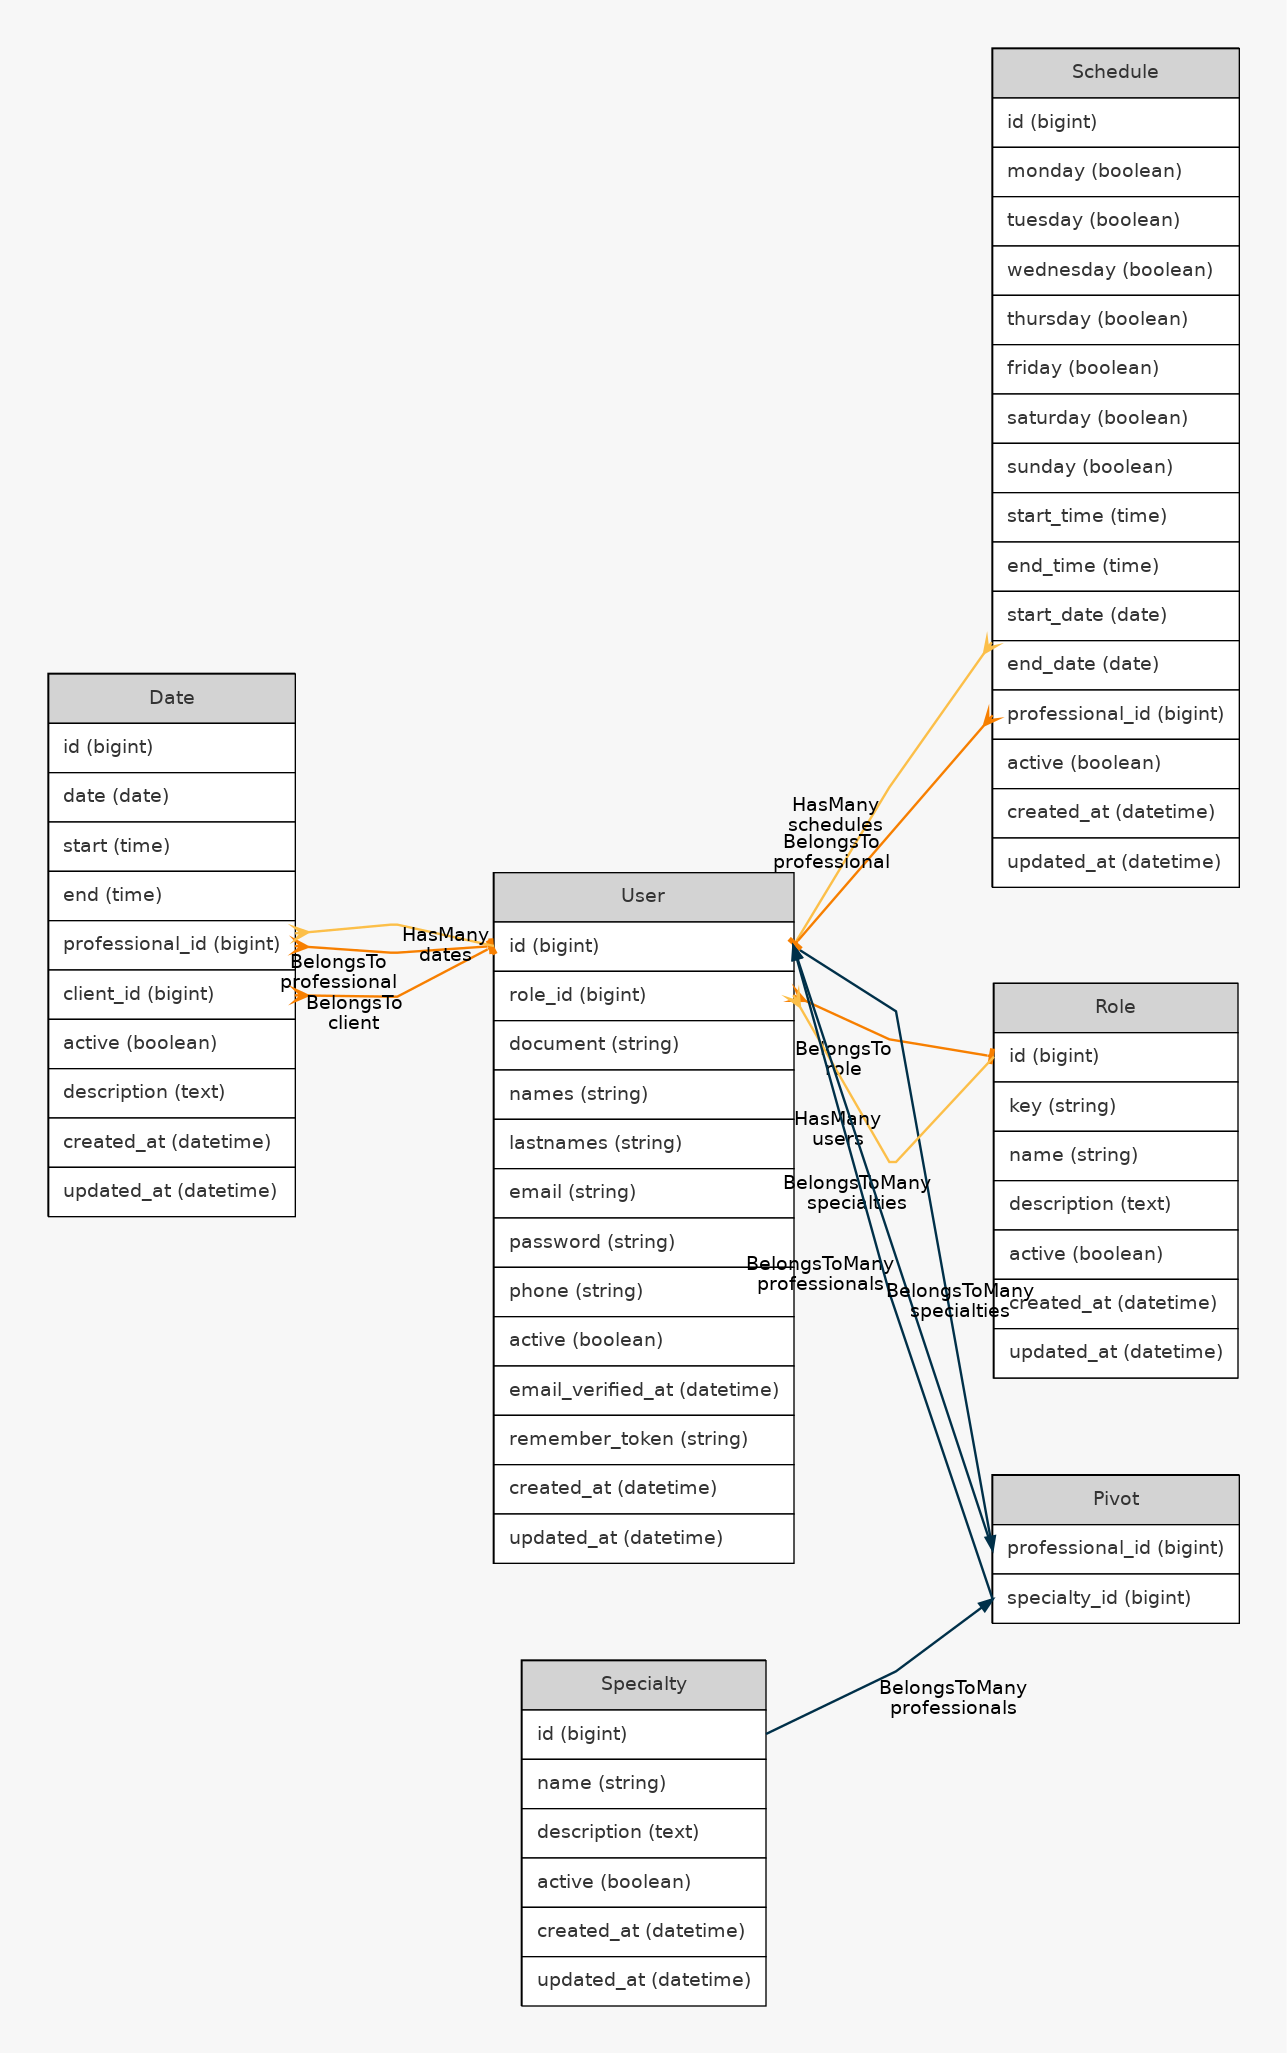
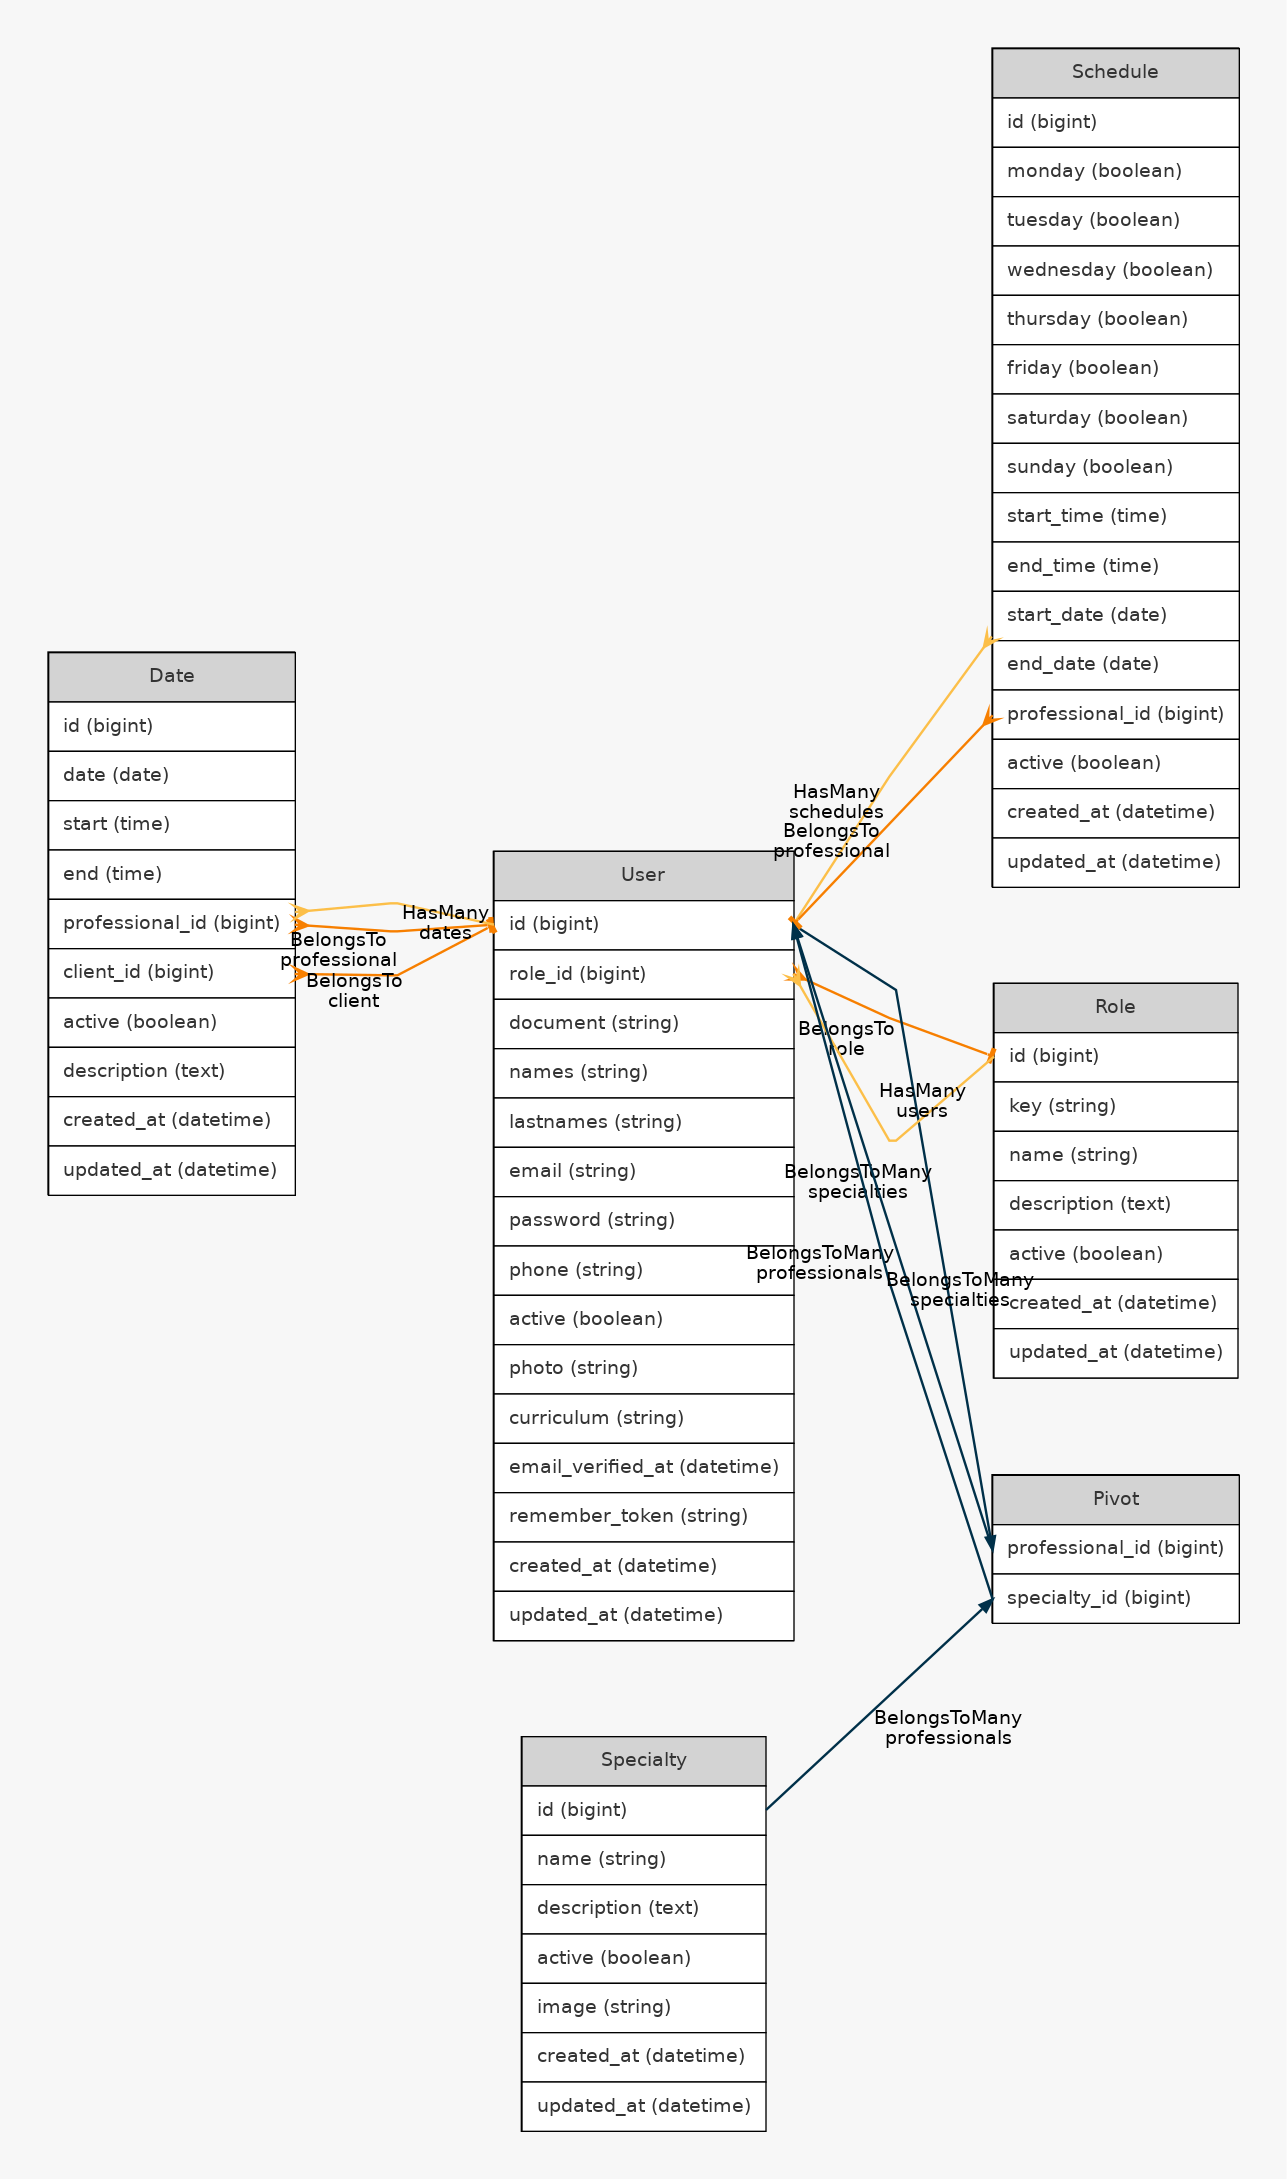
Actualización de migraciones y generación de seeders

Changed region(s): [[0.0311, 0.0, 0.9635, 0.9976]]

diff --git a/DateManager/database/migrations/2020_11_29_003839_create_schedules_table.php b/DateManager/database/migrations/2020_11_29_003839_create_schedules_table.php
@@ -15,18 +15,18 @@ class CreateSchedulesTable extends Migration
     {
         Schema::create('schedules', function (Blueprint $table) {
             $table->id();
-            $table->boolean('monday')->nullable(false);
-            $table->boolean('tuesday')->nullable(false);
-            $table->boolean('wednesday')->nullable(false);
-            $table->boolean('thursday')->nullable(false);
-            $table->boolean('friday')->nullable(false);
-            $table->boolean('saturday')->nullable(false);
-            $table->boolean('sunday')->nullable(false);
-            $table->time('start_time')->nullable(false);
-            $table->time('end_time')->nullable(false);
+            $table->boolean('monday');
+            $table->boolean('tuesday');
+            $table->boolean('wednesday');
+            $table->boolean('thursday');
+            $table->boolean('friday');
+            $table->boolean('saturday');
+            $table->boolean('sunday');
+            $table->time('start_time');
+            $table->time('end_time');
             $table->date('start_date');
             $table->date('end_date');
-            $table->foreignId('professional_id')->constrained('users')->nullable(false)
+            $table->foreignId('professional_id')->constrained('users')
                     ->onDelete('restrict')->onUpdate('cascade');
             $table->boolean('active')->default(true);
             $table->timestamps();

diff --git a/DateManager/database/migrations/2014_10_12_000000_create_users_table.php b/DateManager/database/migrations/2014_10_12_000000_create_users_table.php
@@ -15,15 +15,17 @@ class CreateUsersTable extends Migration
     {
         Schema::create('users', function (Blueprint $table) {
             $table->id();
-            $table->foreignId('role_id')->constrained()->nullable(false)
+            $table->foreignId('role_id')->constrained()
                     ->onDelete('restrict')->onUpdate('cascade');
-            $table->string('document')->unique()->nullable(false);
-            $table->string('names')->nullable(false);
-            $table->string('lastnames')->nullable(false);
-            $table->string('email')->unique()->nullable(false);
-            $table->string('password')->nullable(false);
+            $table->string('document')->unique();
+            $table->string('names');
+            $table->string('lastnames');
+            $table->string('email')->unique();
+            $table->string('password');
             $table->string('phone');
             $table->boolean('active')->default(true);
+            $table->string('photo')->nullable();
+            $table->string('curriculum')->nullable();
             $table->timestamp('email_verified_at')->nullable();
             $table->rememberToken();
             $table->timestamps();

diff --git a/DateManager/database/migrations/2020_11_29_001554_create_dates_table.php b/DateManager/database/migrations/2020_11_29_001554_create_dates_table.php
@@ -15,15 +15,15 @@ class CreateDatesTable extends Migration
     {
         Schema::create('dates', function (Blueprint $table) {
             $table->id();
-            $table->date('date')->nullable(false);
-            $table->time('start')->nullable(false);
-            $table->time('end')->nullable(false);
-            $table->foreignId('professional_id')->constrained('users')->nullable(false)
+            $table->date('date');
+            $table->time('start');
+            $table->time('end');
+            $table->foreignId('professional_id')->constrained('users')
                     ->onDelete('restrict')->onUpdate('cascade');
-            $table->foreignId('client_id')->constrained('users')->nullable(false)
+            $table->foreignId('client_id')->constrained('users')
                     ->onDelete('restrict')->onUpdate('cascade');
             $table->boolean('active')->default(true);
-            $table->text('description');
+            $table->text('description')->nullable();
             $table->timestamps();
         });
     }

diff --git a/DateManager/database/seeders/AdminSeeder.php b/DateManager/database/seeders/AdminSeeder.php
@@ -1,0 +1,34 @@
+<?php
+
+namespace Database\Seeders;
+
+use App\Models\Role;
+use App\Models\User;
+use Illuminate\Database\Seeder;
+use Illuminate\Support\Facades\Hash;
+
+class AdminSeeder extends Seeder
+{
+    /**
+     * Run the database seeds.
+     *
+     * @return void
+     */
+    public function run()
+    {
+        $adminRole = Role::where('key','admin')->first();
+        if ($adminRole) {
+            $admin = [
+                'role_id' => $adminRole->id,
+                'document' => '1007706065',
+                'names' => 'Jefferson',
+                'lastnames' => 'Iles Arcos',
+                'email' => 'jeferiles@gmail.com',
+                'password' => Hash::make('Hola-123'),
+                'phone' => '3229247604',
+                'active' => true
+            ];
+            User::create($admin);
+        }
+    }
+}

diff --git a/DateManager/database/seeders/RoleSeeder.php b/DateManager/database/seeders/RoleSeeder.php
@@ -1,0 +1,35 @@
+<?php
+
+namespace Database\Seeders;
+
+use App\Models\Role;
+use Illuminate\Database\Seeder;
+
+class RoleSeeder extends Seeder
+{
+    /**
+     * Run the database seeds.
+     *
+     * @return void
+     */
+    public function run()
+    {
+        $roles = [
+            [
+                'key' => 'admin',
+                'name' => 'Administrator'
+            ],
+            [
+                'key' => 'pro',
+                'name' => 'Professional'
+            ],
+            [
+                'key' => 'client',
+                'name' => 'Client'
+            ]
+        ];
+        foreach($roles as $role) {
+            Role::create($role);
+        }
+    }
+}

diff --git a/DateManager/database/migrations/2013_11_28_230849_create_roles_table.php b/DateManager/database/migrations/2013_11_28_230849_create_roles_table.php
@@ -15,9 +15,9 @@ class CreateRolesTable extends Migration
     {
         Schema::create('roles', function (Blueprint $table) {
             $table->id();
-            $table->string('key')->unique()->nullable(false);
-            $table->string('name')->unique()->nullable(false);
-            $table->text('description');
+            $table->string('key')->unique();
+            $table->string('name')->unique();
+            $table->text('description')->nullable();
             $table->boolean('active')->default(true);
             $table->timestamps();
         });

diff --git a/DateManager/database/migrations/2020_11_29_001253_create_specialties_table.php b/DateManager/database/migrations/2020_11_29_001253_create_specialties_table.php
@@ -15,9 +15,10 @@ class CreateSpecialtiesTable extends Migration
     {
         Schema::create('specialties', function (Blueprint $table) {
             $table->id();
-            $table->string('name')->unique()->nullable(false);
-            $table->text('description');
+            $table->string('name')->unique();
+            $table->text('description')->nullable();
             $table->boolean('active')->default(true);
+            $table->string('image')->nullable();
             $table->timestamps();
         });
     }

diff --git a/DateManager/database/migrations/2020_11_29_020320_create_specialty_user.php b/DateManager/database/migrations/2020_11_29_020320_create_specialty_user.php
@@ -14,8 +14,8 @@ class CreateSpecialtyUser extends Migration
     public function up()
     {
         Schema::create('specialty_user', function (Blueprint $table) {
-            $table->foreignId('professional_id')->constrained('users')->nullable(false);
-            $table->foreignId('specialty_id')->constrained()->nullable(false);
+            $table->foreignId('professional_id')->constrained('users');
+            $table->foreignId('specialty_id')->constrained();
         });
     }
 

diff --git a/DateManager/database/seeders/DatabaseSeeder.php b/DateManager/database/seeders/DatabaseSeeder.php
@@ -13,6 +13,8 @@ class DatabaseSeeder extends Seeder
      */
     public function run()
     {
-        // \App\Models\User::factory(10)->create();
+        $this->call([
+            RoleSeeder::class,AdminSeeder::class
+            ]);
     }
 }

diff --git a/DateManager/app/Models/User.php b/DateManager/app/Models/User.php
@@ -23,7 +23,9 @@ class User extends Authenticatable
         'email',
         'password',
         'phone',
-        'active'
+        'active',
+        'photo',
+        'curriculum'
     ];
 
     /**
